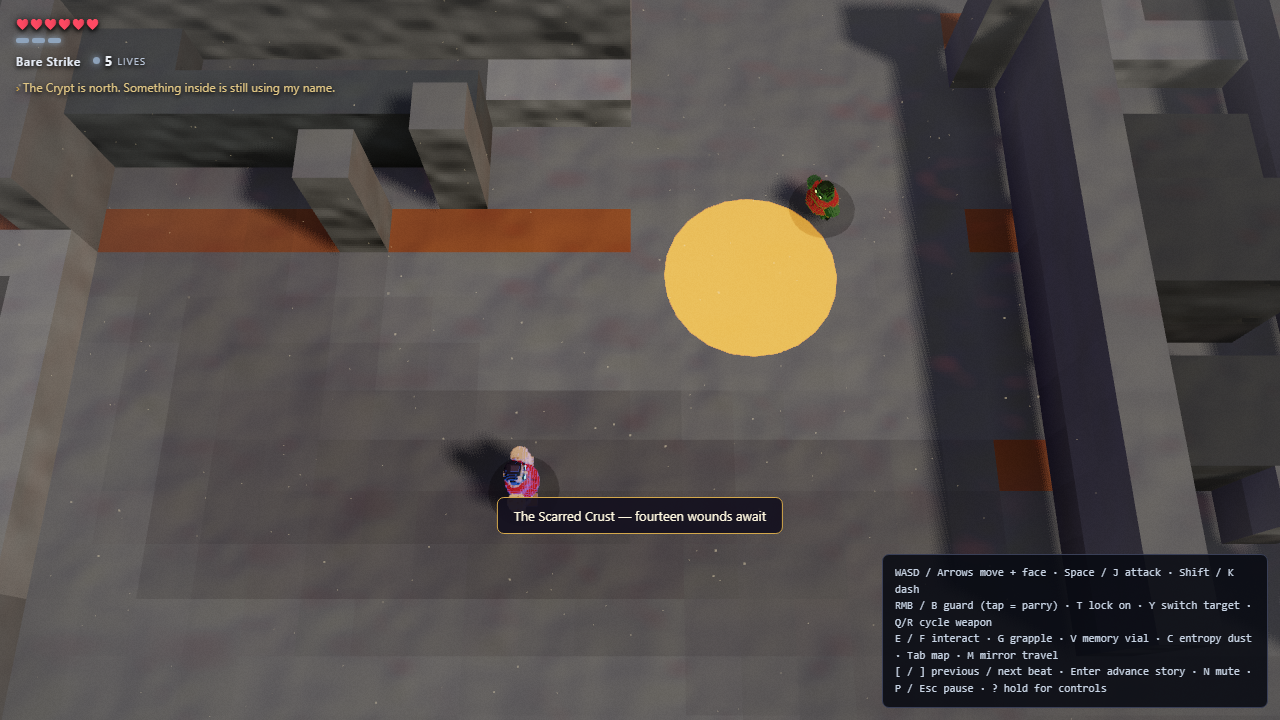
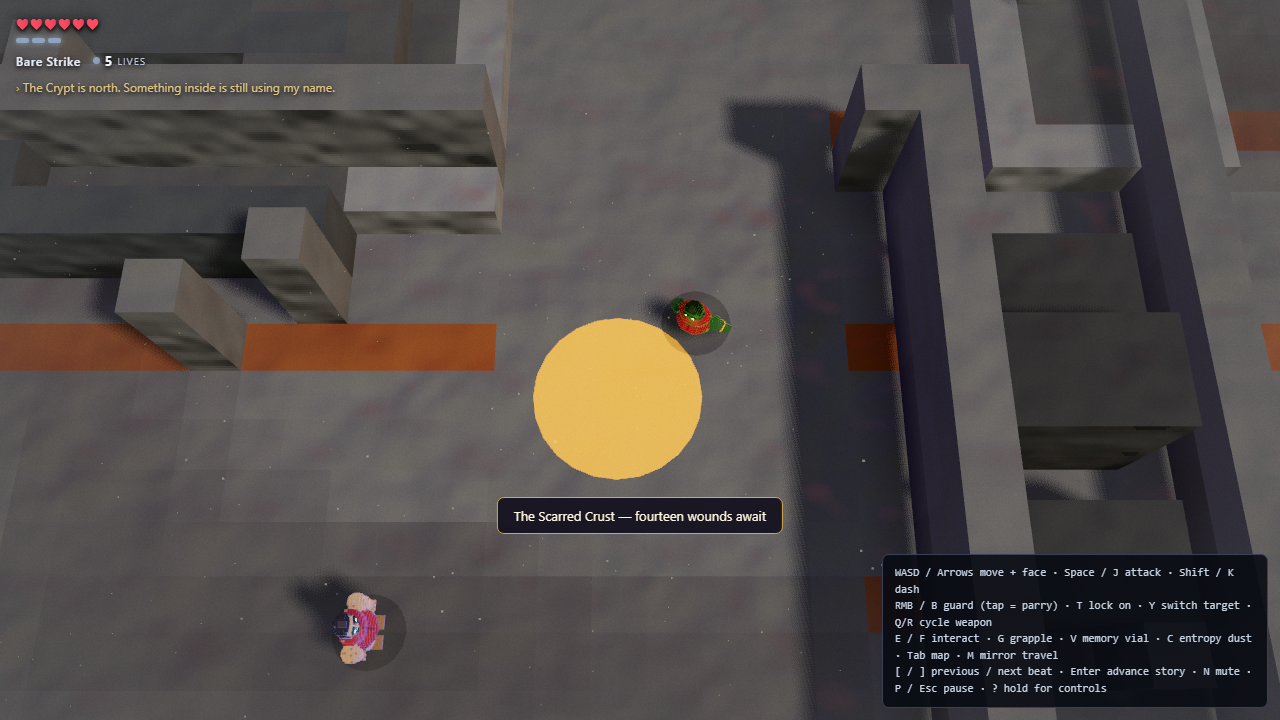
overworld: the certification gate caught the ground pass
Darkening the ground put one of the sixteen overworld certification samples
under the band — pyre, Abyss state, 71.5 against a floor of 76, while the
other fifteen sat between 81 and 108. Its grammar was already the darkest of
the eight and the new ground darkens rather than lifts.

Fixed in three measured steps, art first, because the art is what changed:

  scorch decal pulled back  0x3a2018 -> 0x5a4038, coverage 0.42 -> 0.34   73.3
  terrace shade mood-aware  0.78 -> 0.88 in Abyss (those floors are dark)  75.5
  ABYSS_REGION_MULT pyre    1.08, the mechanism that existed for this      79.8

All sixteen in band, and contrast is up almost everywhere.

  tests/qa/overworld-lum.mjs

New probe, and the reason the above took minutes rather than hours. Those
sixteen samples are gated and there had been no way to see them outside a
twenty-minute full-suite run. It reads `visual-sanity`'s own LUM_BANDS and
its own pinned screens rather than carrying copies — `lum-probe.mjs` carried
its own bands for months and sent people chasing regressions that were not
there.

Documentation swept: ARCHITECTURE gains room-footprint, camera-framing,
threat-edge and the large-room terracing; ROAD-TO-AAA §2 records that the
outline moves on one dungeon and §5 corrects every "N rooms" figure that
came from the miscounting density probe; the qa README indexes the four new
probes; CHANGELOG carries the pass and this regression.

diff --git a/src/game/overworld/overworld.js b/src/game/overworld/overworld.js
@@ -49,6 +49,16 @@ const OVERWORLD_BASE_TUNE = {
 const ABYSS_REGION_MULT = {
     quarry: 1.12,
     spindle: 1.06,
+    // Added with the ground-relief pass. Pyre's Abyss screens metered 71.5
+    // against a band floor of 76 once the region carried scorch weathering and
+    // shaded terraces — it was the only one of the eight that fell out, because
+    // its grammar was already the darkest and the new ground darkens rather
+    // than lifts. The decal and the terrace shade were both pulled back first
+    // (0x3a2018 -> 0x5a4038, and the Abyss shade from 0.78 to 0.88), which got
+    // it to 75.5; this is the last five percent, and it belongs here rather
+    // than in the art because the art is now the same as the other seven
+    // regions' and it is the LIGHT that this region has always been short of.
+    pyre: 1.08,
     // A TRIM, not a lift — the first sub-1.0 entry here. Tombfields' Abyss
     // screens measured 129.8 / 129.9 / 130.1 across three runs against a band
     // ceiling of exactly 130, so whether the certification gate passed was
@@ -206,13 +216,19 @@ export function createOverworld(ctx, screensDef, opts = {}) {
             // against the floor. `docs/media/overworld/` is where the difference
             // lives. Keeping the material and letting the step's own shadow do
             // the separating is what makes it read as terrain.
-            terraceColor: shadeOf(screenFloor, 0.78),
+            // MOOD-AWARE, because a fixed fraction is not a fixed cost. The
+            // Abyss floors are already dark, so the 0.78 that reads as a step
+            // in daylight reads as underexposure at night — with the pyre
+            // weathering it took that region's abyss state to 71.5 against a
+            // certification floor of 76. The step still has to be visible, so
+            // it is a smaller bite rather than none.
+            terraceColor: shadeOf(screenFloor, mood === 'abyss' ? 0.88 : 0.78),
             // …and the step-edge mark is a LIGHTER shade of the same ground
             // rather than the kit tread. Same reasoning: the affordance is
             // worth keeping — a lit rim still reads as an edge you can step up
             // — but it must be this ground catching the light, not a different
             // material laid over it.
-            treadColor: shadeOf(screenFloor, 1.16),
+            treadColor: shadeOf(screenFloor, mood === 'abyss' ? 1.24 : 1.16),
             onBake: s.onBake,
             doors: (s.edges || []).map((e) => ({
                 to: e.to,

diff --git a/src/game/world/room-decals.js b/src/game/world/room-decals.js
@@ -101,7 +101,13 @@ export const WEATHERING = {
     'ow:quarry': { color: 0x241e26, coverage: 0.40, strength: 0.44, where: 'both' },
     'ow:bonetown': { color: 0x4a4636, coverage: 0.40, strength: 0.44, where: 'both' },
     'ow:cryomire': { color: 0x24323c, coverage: 0.40, strength: 0.44, where: 'both' },
-    'ow:pyre': { color: 0x3a2018, coverage: 0.42, strength: 0.44, where: 'both' },
+    // PYRE IS THE ONE THAT HAD TO BE PULLED BACK, and the certification gate
+    // is what said so: at 0x3a2018 / 0.42 / 0.44 — the darkest colour of the
+    // eight at the highest coverage — the ABYSS state of this region metered
+    // 71.5 against a band floor of 76, while every other region sat at 81 to
+    // 107. The abyss floors are already dark, so the same scorch that reads as
+    // weathering on rust reads as underexposure on basalt.
+    'ow:pyre': { color: 0x5a4038, coverage: 0.34, strength: 0.36, where: 'both' },
 };
 
 /** Lattice size for the noise field, in cells. Bigger = broader patches. */

diff --git a/docs/ROAD-TO-AAA.md b/docs/ROAD-TO-AAA.md
@@ -114,7 +114,8 @@ imprecise version would have sent weeks in the wrong direction:
   enough that no two neighbours match; not authored, so no room's shape means
   anything about that room.
 - **The perimeter is still a rectangle** in every room. The elevation varies
-  inside a box whose outline never does.
+  inside a box whose outline never does. **Not any more, on beat 06** — see the
+  update below.
 
 So the honest version of this item is: *the floors have relief; the SPACES do
 not have shape.* The fix is not "add verticality" — that shipped. It is
@@ -128,6 +129,39 @@ one thing that cannot be applied globally. Weeks, not days.
 *Lesson, logged:* I wrote a confident sentence about 99 rooms from looking at
 about six screenshots. "Count, do not cite" applies to my own prose hardest of
 all, and the owner having played the game beat my having read it.
+
+
+---
+
+#### UPDATE 2026-08-18 — the outline moves, on one dungeon
+
+`src/game/world/room-footprint.js`. A room keeps `half` as its bounding extent
+and may add a `cut`. Beat 06 Quarry is authored: six non-boss rooms, each losing
+6–13% of its square, in the order `HOW-TO-CLOSE-THE-GAP.md` §2 prescribes.
+
+Two things that were not obvious before doing it, both worth carrying into the
+next dungeon:
+
+- **A cut on the SOUTH side costs occlusion.** The camera is fixed-yaw and looks
+  from +Z, so near-half mass stands between the lens and the player's head.
+  Moving what could move to the far half took beat 06 from 26 occluded standable
+  cells to 20, against an uncut baseline of 13. Prefer far-half cuts; the near
+  half is the frame's foreground.
+- **A static validator cannot see the room.** A cut that severed the one-cell
+  ring around `goldgash`'s `caster_dark` blocker passed every check that reads
+  the room table, and islanded a door. `tests/qa/door-reach.mjs` caught it in the
+  built world. Blockers now count as rock for the connectivity question, and the
+  spec holds the exact cut that shipped the bug — but the rule stands: **bake it
+  and measure the world.**
+
+Boss arenas are deliberately still square. `api.halfSize` is the arena clamp and
+it is the bounding box, so a cut would leave a fourteen-metre body a legal place
+to stand that is solid rock. Shaping them needs the clamp to learn about
+outlines first, and is its own ticket.
+
+Traversal re-audit, whole campaign, after: `door-reach` 0 locked in,
+`entry-safety` 0 bad of 528 arrival points, `puzzle-reach` 0,
+`key-reachability` 0.
 
 ### 3. Nothing moves that you did not move
 
@@ -191,6 +225,27 @@ the elites and the arena seals are all already built.
 > 2026-08-12: **153 enemies across 108 rooms**, peaks running
 > `3 3 3 4 4 4 5 5 5 6 6 6 6 7` instead of three distinct values. See
 > `HOW-TO-CLOSE-THE-GAP.md` §5 for the working.
+>
+> **CORRECTED 2026-08-18 — the probe was miscounting rooms, and every "N rooms"
+> figure on this page came from it.** `content-density.mjs` matched enemy arrays
+> with a regex that required the closing bracket at exactly twelve spaces of
+> indentation; twenty-two of the campaign's arrays are written on one line and
+> were never counted as rooms. The enemy TOTAL was always right, because the
+> entry regex ran over whatever text the block match swallowed. The room count
+> was not:
+>
+> | | reported | actual |
+> |---|---|---|
+> | encounter rooms | 47 | **65** |
+> | mean encounter size | 3.26 | **2.35** |
+> | rooms holding exactly one | 4 | **24** |
+> | beat-08 peak | 7 | **5** |
+>
+> So "two enemies in a room is a skirmish" was, if anything, understated — a
+> quarter of the campaign's encounter rooms hold ONE. The peaks are
+> `3 3 3 4 4 4 5 5 5 6 6 6 6 7` in the table above and read
+> `3 3 3 4 4 4 5 5 5 6 6 6 6 7` corrected too, except beat 08, which is 5.
+> The probe now reads `BEAT_LIST` like every other one.
 >
 > **And this section asked the wrong question first.** Every number in it is
 > about how BIG a fight is; none of them asks whether any fight is *mandatory*.

diff --git a/docs/ARCHITECTURE.md b/docs/ARCHITECTURE.md
@@ -132,6 +132,24 @@ Pickup shape is chosen from `reward.type` first (Z7 made it data); label
 sniffing is only a fallback for pickups that predate it, kept in step with the
 identical fallback room-graph uses for scoring.
 
+**Camera framing** (`src/game/camera-framing.js`, DOM-free so specs can load
+it): two channels widen the frame and they compose with `max`, never a sum.
+`setSecondSubject` is the boss/lock-on subject — it slides the look target AND
+widens, capped at `SECOND_WIDEN_MAX` 7. `setArenaThreats` is the live enemies of
+a **sealed** room — widen only, never a look-target slide, capped at
+`ARENA_WIDEN_MAX` 2.0 because on-screen size goes as 1/distance and the hero is
+34 px wide. `sealPunch` is a half-second dip on its own channel, because a seal
+and a killing blow land on the same frame constantly and sharing `_kick` would
+let one eat the other. Measured with `tests/qa/arena-frame.mjs`.
+
+**Off-screen threat marks** (`src/game/fx/threat-edge.js`): a chevron at the
+frame edge for a committed attack whose attacker is outside it, for exactly the
+wind-up, in the telegraph ring's colour. Hooked at `Enemy._beginWindup`, the one
+choke point every attack routes through. It exists because three of the five
+kinds act from beyond the frame (lancer 7, censer 9, weaver 11, against a
+shallow-axis reach of 6.18) and no camera setting fixes that — frame depth and
+hero size are the same knob (`tests/qa/hero-scale.mjs`).
+
 ## Threat curve
 
 `world/threat-curve.js` is the single lever for campaign difficulty, applied in
@@ -194,6 +212,30 @@ adapter levels use.
 `boot_ledge`, `caster_dark` — each a build-time map edit + a runtime, declared
 per room/screen via `blockers: []`. Note: collision is 2-D, so `boot_ledge`
 is a hop-**over**, never a stand-on-top.
+
+**Room outline** (`src/game/world/room-footprint.js`): a room keeps `half` as
+its BOUNDING half-extent and may add `cut: [{corner|x0..z1}]`, rectangles of the
+playable square that are not floor. The cut is **filled with solid rock**, not
+left as a hole — that is what makes a non-square room safe on a shipped
+campaign, because every placement check here already consults the voxel map
+(props, the terrace lift, dressing, `walkableCells`, `nearestFreeEntry`, the
+reachability probes) and so refuses it without being told outlines exist.
+`buildPerimeterWithDoors` asks one predicate, `fp.blocks()`, for the wall ring
+and the cut together, so an L-shape's inner corner is built by the same line as
+its outer ones. `validateFootprint` refuses a cut that buries a door apron, a
+spawn, an authored body, drops the room below `MIN_AREA`, or splits it in two —
+its connectivity flood uses ONE seed, because seeding every door and asking
+whether every door was reached is a check that cannot fail. Blockers count as
+rock for that question. Authored on beat 06 only; boss arenas stay square
+because `api.halfSize` is the arena clamp and it is the bounding box.
+
+**Terracing** (`src/game/world/terracing.js`): rises go in the PLATFORM map,
+meshed without XZ solids, so a terrace is standable and never blocking and no
+arrangement can make anywhere unreachable. Rooms at or above `LARGE_HALF` (the
+overworld's screens, half 23) get a jittered grid of small rises at
+`LARGE_PITCH` instead of one room-sized shape — the shapes are parameterised off
+`half`, so at screen scale they landed 21 units out, outside a frame that is 13
+units deep.
 
 **Map** (`ui/map-screen.js`): Tab overlay fed by `level.mapData()`.
 

diff --git a/tests/qa/README.md b/tests/qa/README.md
@@ -31,6 +31,28 @@ and are the ones to run when you want a number:
 Everything else without a leading `_` and without the UNMAINTAINED banner. Fine
 to run, fine to trust for the afternoon you run them in.
 
+Three added 2026-08-18, all of which changed a decision rather than confirming
+one — which is the only reason a probe is worth writing:
+
+- **`arena-frame`** — how much of a fight is on screen. It was written to pick
+  how far the arena camera should push IN and reported that the plan was
+  backwards: the frame is 13 world units deep against arenas 17 to 23 across,
+  and a lancer (7), a censer (9) and a weaver (11) all attack from outside it.
+  Prints hero pixels beside frame reach, because they are the same knob.
+- **`hero-scale`** — what making the hero bigger would cost. Hero height ×
+  frame depth is constant at 1206 across every fov and distance. Pitch is the
+  one lever that is not a straight trade and it is a cliff: occlusion is ~1%
+  from 78° down to 66° and **8.29% at 60°**.
+- **`overworld-lum`** — the sixteen overworld certification samples (one screen
+  per region × both mirror states) against `visual-sanity`'s own bands, in two
+  minutes instead of a twenty-minute suite run. Written because the relief pass
+  put pyre's Abyss state 4.5 points under the floor and iterating on that
+  against the full suite would have cost hours.
+- **`overworld-shots`** — before/after pairs of overworld screens, into
+  `docs/media/overworld/<label>/`. It corrected the claim it was built to
+  illustrate: "the overworld is flat" came from a probe that samples the START
+  screen, and three of the four screens shot already had spreads of 97 to 136.
+
 ### 3. Unmaintained one-off investigation harnesses — **do not cite**
 
 Nine files carry a banner saying so at the top:

diff --git a/CHANGELOG.md b/CHANGELOG.md
@@ -65,6 +65,26 @@ And the pictures corrected the overworld's colour three times while the contrast
 metric scored all three attempts at 46-47. A value-break number cannot tell a
 material that belongs from one that does not.
 
+#### And the gate caught the pass that caused it
+
+Darkening the overworld's ground put ONE of the sixteen certification samples
+under the band: pyre, in the Abyss state, at 71.5 against a floor of 76, while
+the other fifteen sat between 81 and 108. Its grammar was already the darkest of
+the eight and the new ground darkens rather than lifts.
+
+Fixed in three measured steps, in that order, because the art should be the
+first thing to give: the scorch decal was pulled back (`0x3a2018` → `0x5a4038`,
+coverage 0.42 → 0.34), the terrace shade was made mood-aware (0.78 → 0.88 in
+Abyss, since those floors are already dark), and the last five percent went to
+`ABYSS_REGION_MULT`, which is the mechanism that already existed for exactly
+this. 71.5 → 73.3 → 75.5 → 79.8. All sixteen in band, contrast up almost
+everywhere.
+
+`tests/qa/overworld-lum.mjs` is new and is why that took minutes rather than
+hours — those sixteen samples were gated and there had been no way to see them
+outside a twenty-minute suite run. It reads `visual-sanity`'s own bands and
+samples its own pinned screens rather than carrying copies.
+
 Suite 5929 → 6147 assertions. 64 counterfactuals across four new specs, all red,
 all restored byte for byte.
 
